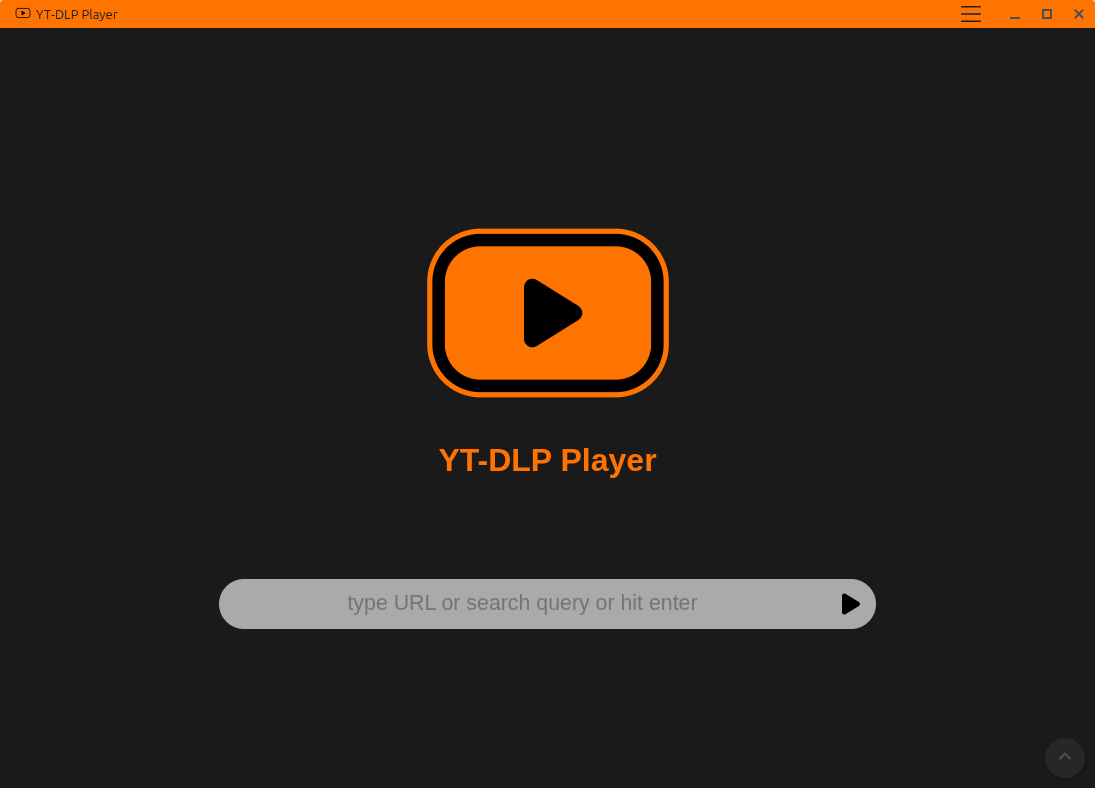
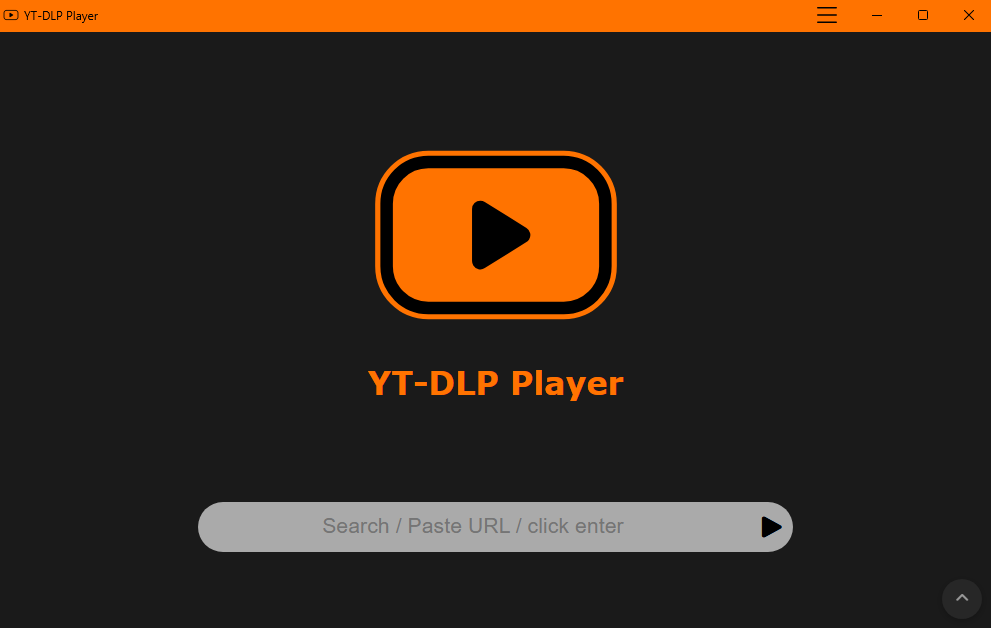
Update readme

diff --git a/readme.md b/readme.md
@@ -22,105 +22,97 @@
 
 
 ## Features
+- **Daily auto update of yt-dlp to immediately support new yt-dlp codecs and sites**
 - everything you would expect a modern player to have
-- fast loading speed (most videos load within 4s)
+- fast loading speed (most videos load in 3s)
+- livestream support
+- minimalistic UI, configurable theme color
 - paste video URL / type search query / auto pasting from clipboard
 - zoom to fill for all devices
 - download, repeat videos
-- audio visualizer for music
-- PWA support with "share with" target for Android and IOS
-- clean UI, configurable theme color
-- basic livestream support
-- browser extension to allow including this player on every website, which also adds `Open link in YT-DLP Player` browser-wide context menu
-- embedding using `/iframe?url=...` endpoint
+- optional music visualizer
+- browser extension
+- PWA
+
 
 some of these features are off by default and need to be turned on in `.env`
 
-**Daily auto update of yt-dlp to immediately support new yt-dlp codecs and sites**
+---
+<table align="center">
+  <tr>
+    <td align="center" valign="top" width="50%">
+      <b>Main Page (PWA)</b><br>Paste URL, seach for a video or click enter - when input field is empty, it will auto-fill from clipboard
+      <br><br><img src=".github/images/main.png" alt="Main Page" />
+    </td>
+    <td align="center" valign="top" width="50%">
+      <b>Vertical Video Support</b><br>Player automatically adjusts its aspect ratio to each video, in fullscreen you can zoom to fill
+      <br><br><img src=".github/images/vert.png" alt="Vertical Video Support" />
+    </td>
+  </tr>
+  <tr>
+    <td align="center" valign="top" width="50%">
+      <b>Phone App</b><br>Installable as PWA app - native phone experience, opening links with "share with YT-DLP Player"
+      <br><br><img src=".github/images/app.png" alt="Phone App" />
+    </td>
+    <td align="center" valign="top" width="50%">
+      <b>Browser Extension</b><br>Replace all videos seamlessly - consistent UI across every website, no irritating autoplay
+      <br><br><img src=".github/images/stream.png" alt="Browser Extension" />
+    </td>
+  </tr>
+</table>
 
-## Technologies used
-- HLS for shorter load times and better performance
-- videojs to support custom video elements
-- yt-dlp for video download
-- ffmpeg for better format support
-- sponsorblock for supported sites (currently YouTube)
-- Media Session API integration for system playback controls
-- Audio Context API for audio over-amplification and audio visualizer
 
 ## Planned
 - video quality changing without interrupts
-- high quality playback without transcoding
 - user-side player configuration
 
 
 ## Limitations
 - only YT-DLP supported videos work
 - video loading times and fallbacks:
-    - most videos load in less than 4 seconds, skipping transcoding until it starts ("Direct" in resolution seleciton)
-    - if it fails, most of remaining videos load in ~10s, when transcoding starts
+    - most videos load in around 3 seconds
+    - if it fails, transcoding starts and video loads in around 10s
     - if it also fails, the whole video is getting downloaded until it becomes available
-- all videos are being transcoded to HLS in realtime, so you need a machine that could handle that
-    - transcoding works from start of the videos, so you need to wait for later parts to buffer. For now the only alternative is to switch to "Direct" in resolution selection
 - project is under heavy development - you may expect bugs and issues
 
 
-
-## Images
-
-### Main Page
-![image](.github/images/main.png)
-### Vertical Video Support
-![vertical](.github/images/vert.png)
-### Obligatory Big Buck Bunny
-![big buck bunny](.github/images/bbb.png)
-### Browser Extension
-![Extension](.github/images/ext.png)
-### Phone App
-![PWA](.github/images/app.png)
-
-
-## DEMO
-
-### Demo server
-
-Low performance due to this server's limitations
-
-[https://ytdlp-web-player.vercel.app](https://ytdlp-web-player.vercel.app)
-
-### Proof-of-Concept YT-DLP Web Player inside Invidious
-
-[Docker Hub repo](https://hub.docker.com/r/matszwe02/invidious_ytdlp_web_player)
+## Technologies used
+- yt-dlp as a video downloader
+- videojs as a robust player
+- HLS transcoding for the most reliable playback
+- ffmpeg for better format support
+- node / deno for solving YT-DLP's js challenges
+- sponsorblock integration
+- Media Session API integration for system playback controls
+- Audio Context API for audio over-amplification and music visualizer
 
 
 ## How to run
 
-App should be accessible at [http://localhost:5000](http://localhost:5000)
+App should be accessible at http://localhost:5000
 
-### 1. Docker (preferred)
+### Docker
+- `docker run -p 5000:5000 matszwe02/ytdlp_web_player`
 
-- Run
-  ```sh
-  docker compose up
-  ```
+OR
+
+- Clone repo
+- Copy `src/example.env` to `src/.env`, modify as needed
+- Run `docker compose up`
 - For automatic app updates, see `compose.yml`
 - To enable HTTPS, see `compose.yml`
-  - then you can access the app with `https://localhost:5001`
-  - your browser will warn you about not secure connection, you need to click on allow
+  - then you can access the HTTPS app with https://localhost:5001
+  - your browser will warn you about not secure connection, you need to click on "allow"
 
-### 2. Run locally
-
-- Create and activate a virtual environment in `src/` and install `requirements.txt`
-- Install and ensure you have `ffmpeg` in PATH (typing `ffmpeg` in console should display ffmpeg info)
-  - Install and ensure you have `deno` or `node` in PATH (optional)
-- run with `python3 main.py`
-
-
-## Configure
+### Run locally (Python)
 
 - Copy `src/example.env` to `src/.env`, modify as needed
-- See `compose.yml` for additional configuration mentioned in [Docker section](#1-docker-preferred)
+- Create and activate a virtual environment in `src/` and install `requirements.txt`
+- optionally install `ffmpeg` and `node`/`deno`, otherwise they will be automatically installed to your venv
+- run `main.py`
 
-### Cookies
+
+## Cookies
 
 Some videos need cookies to work. With cookies you will be logged in to the video streaming's website while using the app.
 
@@ -136,34 +128,56 @@ I do not guarantee that cookies file is completly secure from accessing it throu
 
 ## Browser Extension
 
-### What it does
+Replaces every video in allowed (in extension settings) domains with YT-DLP Player. That results with all of the default video players to be seamlessly replaced with YT-DLP Player
 
-1. Adds `Open in YT-DLP Player` context menu for all links. So you can right-click any supported link and it is opened in YT-DLP Player directly.
+- This extension will disable all media playback on the website, disable native player and create YT-DLP Player's iframe in its place
 
-2. Replaces every video in allowed (in extension settings) domains with YT-DLP Player. That results with all of the default video players to be seamlessly replaced with YT-DLP Player.
+### Chromium Browser Extension
 
-### Installation
+Additionally adds `Open in YT-DLP Player` context menu for all links. So you can right-click any supported link and it is opened in YT-DLP Player directly
 
-- You can install the extension by downloading repo and selecting `/extension` path to import into browser's extensions
-- Alternatively you can load `/extension/extension.js` (or copy extension js from Web UI) with tampermonkey, or paste it into dev tools console
-    - For some websites you need to have one of `disable CSM` extensions
+- Install the extension by downloading repo and selecting `/extension` path to import into browser's extensions. You need to enable developer mode in `chrome://extensions`
+- Put player's URL in extension settings
+- In extension settings: enable/disable domains or start/stop temporarily
 
-### Working principle
+### Tampermonkey script
 
-- This extension will disable all media playback on selected websites
-    - it's by design, so keep in mind that no playback will be possible while the extension is active
-- It will spawn iframe directly in `<body>` and search for the best container to hover that iframe above it
-    - it is designed like that so DOM won't be significantly altered
-    - it sends your website's cookies to the server with each request, then tries to mark video as watched (if enabled)
-- That container gets opacity:0 and pointer-events:none so it can't be interacted with
-- It will watch for any change to update iframe's position or container
+- Create a new script and copy extension js from player's dropdown menu (or `/extension/extension.js`)
+- In script settings: enable/disable domains or start/stop temporarily
+- For some websites you need to install one of `disable CSM` extensions
+
+### Developer Tools script
+
+- copy extension js from player's dropdown menu (or `/extension/extension.js`) and paste into developer tools
+- For some websites you need to install one of `disable CSM` extensions
+
+
+## Demo, other use cases
+
+### Demo server
+
+Low performance and may be IP blacklisted due to this server's limitations
+
+https://ytdlp-web-player.vercel.app
+
+### Proof-of-Concept YT-DLP Web Player inside Invidious
+
+https://hub.docker.com/r/matszwe02/invidious_ytdlp_web_player
+
+### Sharing
+
+This player fully supports `Open Graph` - sharing it through social media and messaging apps shows video's title, thumbnail, and allows for direct playback
+
+### Embedding player
+
+If you want to embed this player, use `/iframe?url=...` endpoint
 
 
 ## Troubleshooting
 
 ### I can't install PWA / embed it as an iframe / extension does not load
 
-You need HTTPS for this, see [Docker section](#1-docker-preferred)
+You need HTTPS for this, see in [How to run](#how-to-run)
 
 ### I can't play some videos
 
@@ -172,12 +186,6 @@ Please check if it's supported by yt-dlp [here](https://github.com/yt-dlp/yt-dlp
 Also check [yt-dlp's issues](https://github.com/yt-dlp/yt-dlp/issues).
 
 If it appears to be supported, fill in a bug report with app logs.
-
-### Livestream doesn't work
-
-YT-DLP Web Player is very limited with this feature.
-
-Try using cookies or waiting 30s for the video to buffer before hitting play.
 
 ### Can this app do XYZ?
 